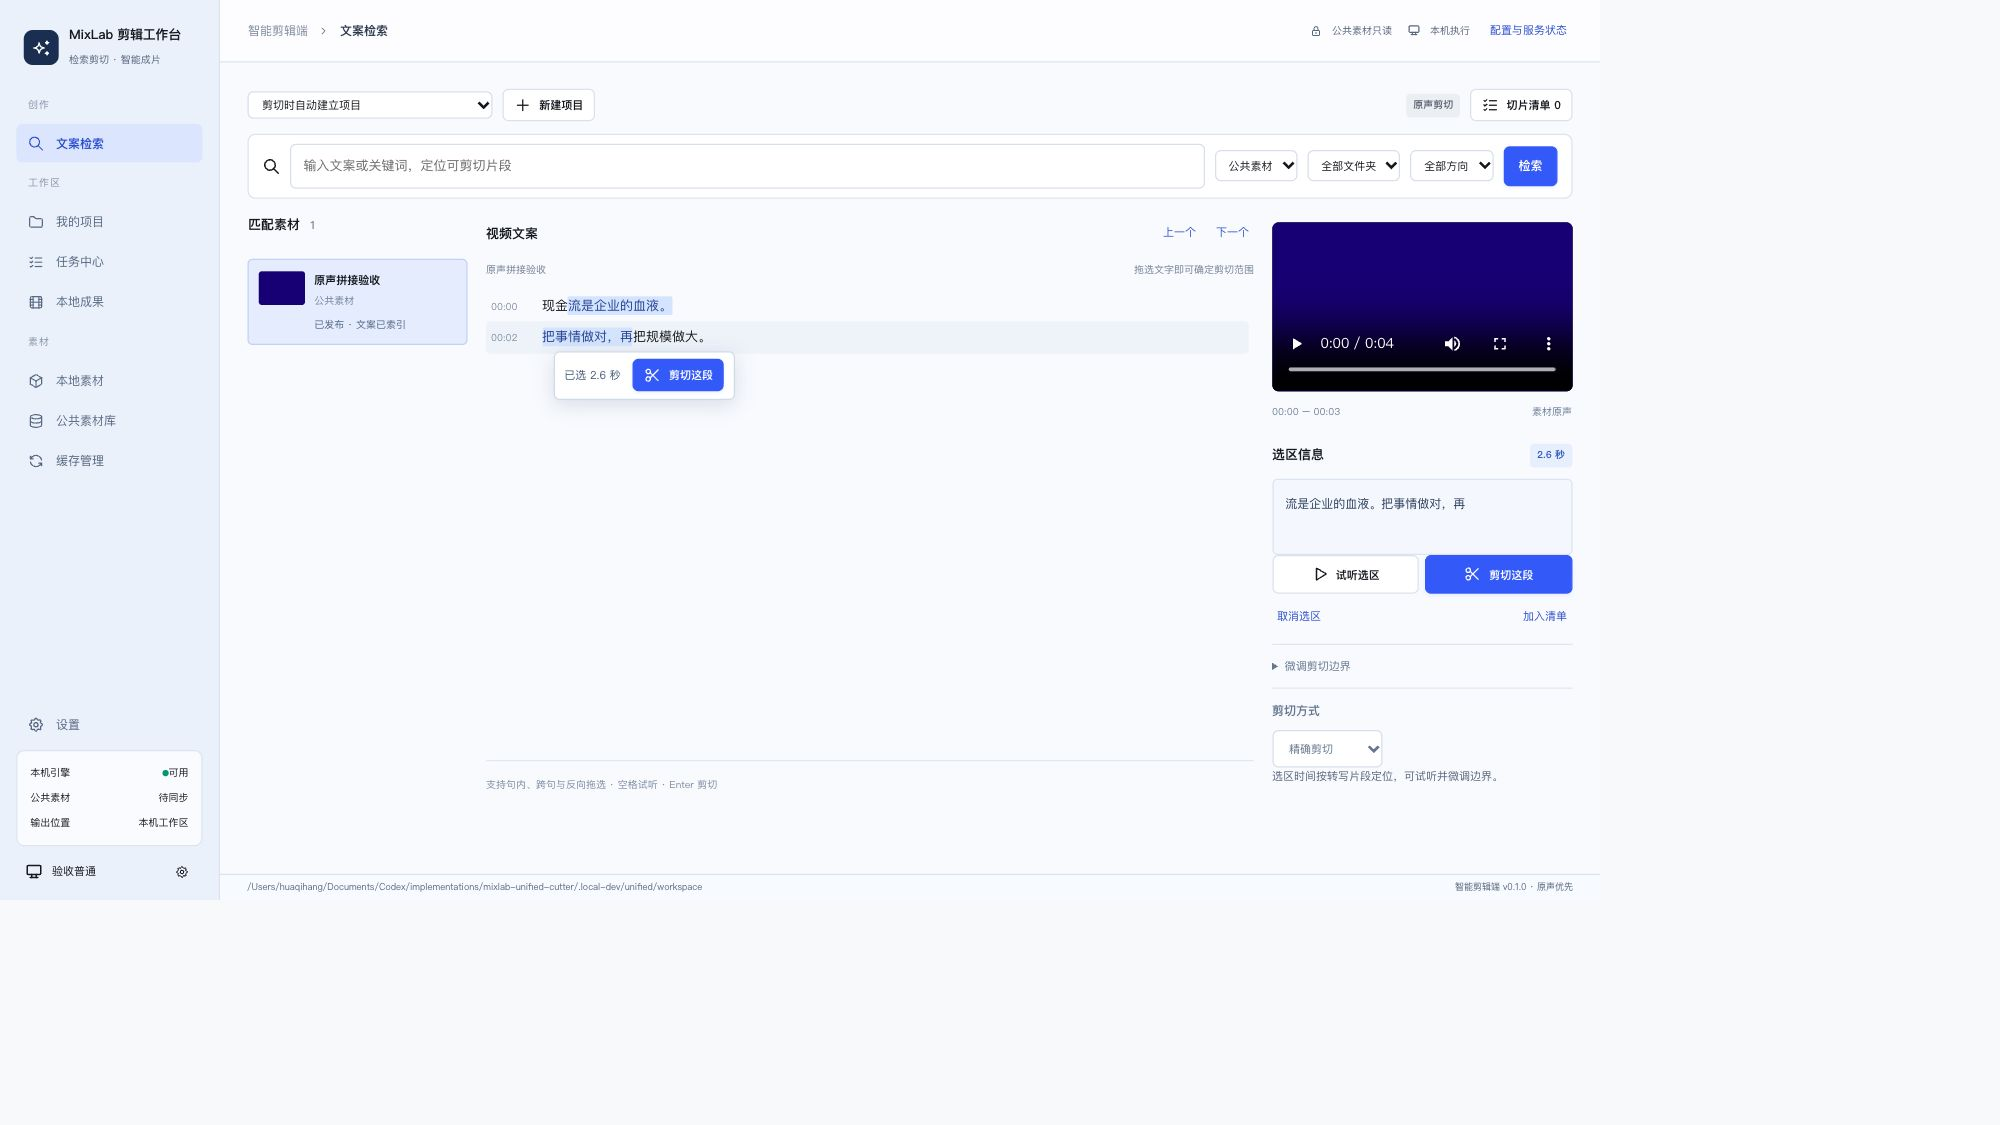
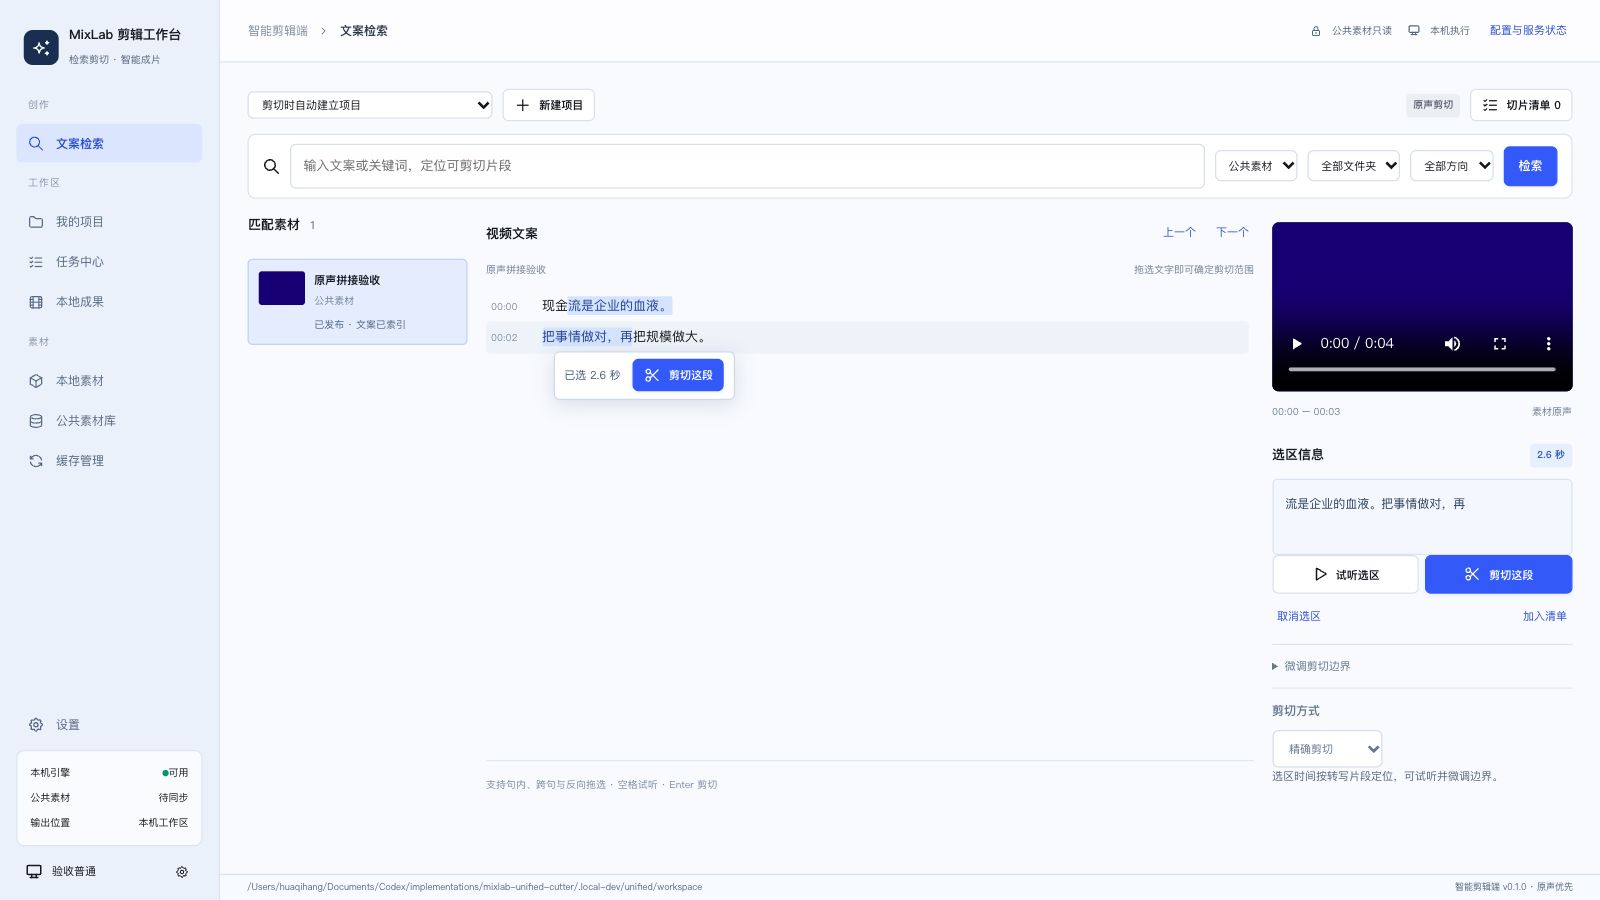
fix: protect unfinished assemblies and serialize cache path changes

diff --git a/packages/smart-cutter/src/core.ts b/packages/smart-cutter/src/core.ts
@@ -36,6 +36,7 @@ export class SmartCore {
   readonly cache: WorkspaceCache;
   readonly assemblies: Assemblies;
   cacheClearing = false;
+  configuring = false;
   activeStreams = 0;
   settings: Settings;
   runtime = { ai_ready: false, ffmpeg_ready: false, library_ready: false, library_count: 0, library_version: "", library_error: "" };
@@ -110,6 +111,9 @@ export class SmartCore {
   publicSettings() { return { ...this.settings, has_tikhub_key: this.vault.has("tikhub"), has_asr_key: this.vault.has("dashscope"), credential_protection: process.platform === "win32" ? "Windows DPAPI" : "开发环境本机私有文件", runtime: { ...this.runtime, semantic: this.ai.indexStatus } }; }
   async updateSettings(body: Record<string, unknown>): Promise<ReturnType<SmartCore["publicSettings"]>> {
     const action = async () => {
+      if (this.cacheClearing) throw new SmartError("cache_busy", "缓存正在清理，请稍后修改设置", 409);
+      this.configuring = true;
+      try {
       const next = { ...this.settings };
       if (body.library_root !== undefined) next.library_root = typeof body.library_root === "string" ? body.library_root.trim() : requireText(body.library_root, "公共素材路径");
       if (body.workspace_root !== undefined) next.workspace_root = requireText(body.workspace_root, "智能工作区", 2048);
@@ -122,7 +126,7 @@ export class SmartCore {
       if (body.default_source_folder !== undefined) next.default_source_folder = String(body.default_source_folder).trim();
       if (body.asr_model !== undefined) next.asr_model = requireText(body.asr_model, "转写模型", 80);
       const moved = next.workspace_root !== this.settings.workspace_root || next.library_root !== this.settings.library_root;
-      if (moved && (this.rendering || this.planning.size || this.references.active || this.monitoring || this.store.listStatus("assembly", ["queued", "running", "paused", "failed"]).length || await this.manual.busy())) throw new SmartError("runtime_busy", "正在处理作品或参考视频，请等待或暂停任务后修改目录", 409);
+      if (moved && (this.activeStreams || this.rendering || this.planning.size || this.references.active || this.monitoring || this.store.listStatus("assembly", ["queued", "running", "paused", "failed"]).length || await this.manual.busy())) throw new SmartError("runtime_busy", "正在处理作品或参考视频，请等待或暂停任务后修改目录", 409);
       if (next.library_root && !path.isAbsolute(next.library_root)) throw new SmartError("library_path", "公共素材库必须是绝对路径");
       await this.ensureWorkspace(next.workspace_root, next.library_root);
       for (const [input, name] of [["tikhub_api_key", "tikhub"], ["asr_api_key", "dashscope"]]) {
@@ -137,6 +141,7 @@ export class SmartCore {
       if (next.library_root !== this.settings.library_root) { this.session = null; await this.vault.set("cutter_session", ""); this.runtime.library_ready = false; }
       await atomicPrivateJson(path.join(this.options.state_root, "settings.json"), next); this.settings = next; this.manual.update();
       return this.publicSettings();
+      } finally { this.configuring = false; }
     };
     const operation = this.configWrites.then(action); this.configWrites = operation.catch(() => undefined); return operation;
   }
@@ -499,7 +504,7 @@ export class SmartCore {
   }
   private async tick(): Promise<void> {
     void this.assemblies.drain().catch(() => undefined);
-    if (this.closed || this.cacheClearing) return;
+    if (this.closed || this.cacheClearing || this.configuring) return;
     if (this.controllers.size) {
       const auth = await this.authStatus();
       if (auth.required || auth.user?.tier !== "pro") for (const [jobId, controller] of this.controllers) {

diff --git a/packages/smart-cutter/src/http.ts b/packages/smart-cutter/src/http.ts
@@ -75,7 +75,7 @@ export function createSmartServer(core: SmartCore, token = "", shutdown?: () => 
         json(response, 202, { stopping: true }); setImmediate(shutdown); return;
       }
       if (url.pathname.startsWith("/cutter/") || url.pathname.startsWith("/smart/media/")) {
-        if (core.cacheClearing) throw new SmartError("cache_busy", "正在清理缓存，请稍后播放或剪切", 409);
+        if (core.cacheClearing || core.configuring) throw new SmartError("cache_busy", "缓存或目录正在调整，请稍后播放或剪切", 409);
         core.activeStreams++;
         response.once("close", () => { core.activeStreams--; });
       }
@@ -92,7 +92,7 @@ export function createSmartServer(core: SmartCore, token = "", shutdown?: () => 
       if (url.pathname === "/smart/provider/test" && method === "POST") { await core.requirePro(); json(response, 200, await core.provider.testConnection()); return; }
       await core.requireSession();
       if (url.pathname === "/smart/auth/password" && method === "POST") { await core.changePassword(await body(request)); json(response, 200, { changed: true }); return; }
-      if (core.cacheClearing && method !== "GET") throw new SmartError("cache_busy", "正在清理缓存，请稍后操作", 409);
+      if ((core.cacheClearing || core.configuring) && method !== "GET") throw new SmartError("cache_busy", "正在清理缓存，请稍后操作", 409);
       if (url.pathname === "/smart/assemblies" && method === "POST") { const input = await body(request); json(response, 202, await core.assemblies.submit(String(input.project_id), input.cut_job_ids)); return; }
       const assemblyRoute = /^\/smart\/assemblies\/([^/]+)\/(action|open|video|srt|manifest)$/.exec(url.pathname);
       if (assemblyRoute) {
@@ -120,6 +120,8 @@ export function createSmartServer(core: SmartCore, token = "", shutdown?: () => 
       if (localRoute && method === "DELETE") { await manageLocalClip(core, localRoute[1]!); json(response, 200, { removed: true }); return; }
       if (url.pathname === "/smart/cache" && method === "GET") { json(response, 200, await core.cache.status()); return; }
       if (url.pathname === "/smart/cache/clear" && method === "POST") { json(response, 200, await core.cache.clear((await body(request)).kinds)); return; }
+      const deleteOutputs = /^\/cutter\/projects\/([^/]+)\/outputs$/.exec(url.pathname);
+      if (deleteOutputs && method === "DELETE" && core.store.listStatus<import("./assembly.ts").Assembly>("assembly", ["queued", "running", "paused", "failed"]).some(job => job.project_id === decodeURIComponent(deleteOutputs[1]!))) throw new SmartError("project_busy", "请完成或取消合并任务后删除项目文件", 409);
       if (url.pathname.startsWith("/cutter/")) { core.manual.dispatch(request, response); return; }
       if (url.pathname === "/smart/library/sync" && method === "POST") { background(core.syncLibrary()); json(response, 202, { started: true }); return; }
       if (url.pathname === "/smart/library/folders" && method === "GET") { json(response, 200, await core.library.folders()); return; }

diff --git a/packages/smart-cutter/src/unified-integration.test.ts b/packages/smart-cutter/src/unified-integration.test.ts
@@ -44,6 +44,8 @@ test("shared approved accounts, old-account compatibility, real manual cut/recut
   const locals = await api<LocalClipCatalog>("/cutter/local-clips"); assert.equal(locals.local_clip_count,1);
   const clip = locals.clips[0]!; const media = await fetch(base+clip.media_url,{headers:{"X-Smart-Token":"local-test-access"}}); assert.equal(media.status,200); assert.ok((await media.arrayBuffer()).byteLength>1000);
   const merge = await api<Assembly>("/smart/assemblies", "POST", {project_id:project.id,cut_job_ids:[job.cut_job_id,job.cut_job_id]},202);
+  await api(`/cutter/projects/${project.id}/outputs`, "DELETE", undefined, 409);
+  await api(`/smart/projects/${project.id}`, "DELETE", undefined, 409);
   const completed = await until(async()=>{ await core.assemblies.drain(); const value = core.store.get<Assembly>("assembly",merge.id)!; if(value.status==="failed") throw new Error(value.error); return value.status==="done" ? value:null; });
   assert.equal(completed.completed,2); assert.ok(completed.duration_ms>4000);
   assert.ok((await readFile(path.join(path.dirname(completed.output_path),"sources.json"),"utf8")).includes(job.export_clip_id!));
@@ -66,6 +68,8 @@ test("shared approved accounts, old-account compatibility, real manual cut/recut
   await api(`/smart/works/${work.id}/segments/1/supplement`,"POST",{revision:planned.revision,source_video_id:"V000001",range:{start:0,end:0,from:0,to:10},begin_ms:0,end_ms:1700},409);
   await mkdir(path.join(core.settings.workspace_root,"cache/previews"),{recursive:true}); await writeFile(path.join(core.settings.workspace_root,"cache/previews/idle.mp4"),"fixture-cache");
   const output=await readFile(completed.output_path), localVideo=await readFile(path.join(core.manual.workspace,clip.relative_path!));
+  core.cacheClearing = true; await api("/smart/settings", "PUT", {source_cache_gb:31},409); core.cacheClearing = false;
+  core.configuring = true; await api("/smart/cache/clear", "POST", {kinds:["temporary"]},409); core.configuring = false;
   await api("/smart/cache/clear","POST",{kinds:["temporary","index","source","reference"]});
   assert.deepEqual(await readFile(completed.output_path),output); assert.deepEqual(await readFile(path.join(core.manual.workspace,clip.relative_path!)),localVideo);
   assert.equal(await readFile(pointer,"utf8"),initialPointer);

diff --git a/packages/smart-cutter/src/cache.ts b/packages/smart-cutter/src/cache.ts
@@ -53,7 +53,7 @@ export class WorkspaceCache {
   }
   async clear(kinds: unknown) {
     if (!Array.isArray(kinds) || kinds.some(kind => !["source", "temporary", "index", "reference"].includes(kind))) throw new SmartError("cache_kind", "清理分类无效");
-    if (this.core.cacheClearing) throw new SmartError("cache_busy", "缓存正在清理，请稍后", 409);
+    if (this.core.cacheClearing || this.core.configuring) throw new SmartError("cache_busy", "缓存正在清理，请稍后", 409);
     this.core.cacheClearing = true;
     try {
       let removedBytes = 0, removedFiles = 0;

diff --git a/packages/smart-cutter/src/assembly.ts b/packages/smart-cutter/src/assembly.ts
@@ -46,7 +46,7 @@ export class Assemblies {
     return this.save(job);
   }
   async drain(): Promise<void> {
-    if (this.closed || this.controller || this.core.cacheClearing) return;
+    if (this.closed || this.controller || this.core.cacheClearing || this.core.configuring) return;
     const queued = this.core.store.listStatus<Assembly>("assembly", ["queued"])[0]; if (!queued) return;
     await this.core.requireSession();
     const jobs = await Promise.all(queued.cut_job_ids.map(id => getCutJob({ workspace_root: this.core.manual.workspace, cut_job_id: id })));

diff --git a/docs/acceptance/unified-cutter/implementation-report.md b/docs/acceptance/unified-cutter/implementation-report.md
@@ -8,7 +8,7 @@
 - Pro 文案成片：整段文案输入、自动命名、手动/自动来源区分、原声匹配审核、人工拖选补句、人物构图与字幕、真实本地 MP4/SRT/来源记录。
 - 工作区：基础及智能项目、真实剪切/合并/智能任务，失败重试、暂停/继续、取消，本地成果播放和目录入口。
 - 素材：管理端已发布公共库、已有转写与索引；本机剪切素材可播放、改名、管理和复剪。抖音下载只供参考文案，不进入素材库。
-- 缓存：真实磁盘占用和分类清理；禁止删除素材库、本地产出、活动任务、检查点或越界/符号链接目标。
+- 缓存与文件保护：未完成的合并禁止删除项目记录或输入文件；目录调整与缓存清理互斥。真实磁盘占用和分类清理；禁止删除素材库、本地产出、活动任务、检查点或越界/符号链接目标。
 - 账号：沿用管理端审核、密码、设备、会话。账号默认普通；管理端增加普通/Pro 级别；授权存入独立兼容文件，旧账号结构不变。界面、HTTP API 与后台任务同时检查权限。
 - Windows：候选应用独立标识、安装目录与默认工作区；关闭窗口隐藏至托盘；托盘明确退出先请求引擎保存检查点，再停止进程树。实现依据官方 [Tauri 托盘 API](https://v2.tauri.app/learn/system-tray/)。
 
@@ -17,7 +17,7 @@
 - 类型检查、智能端 Web 构建、管理端 Web 构建、本机引擎打包、macOS Rust 编译检查通过。
 - 智能模块 14/14 测试通过，包括真实 FFmpeg 成片/字幕、模型推理、审核/取景、恢复、监控/转写接口桩、权限、真实剪切/复剪/合并和受保护清理。
 - 管理端/Cutter API 扩大回归 649 项：648 通过，1 失败。失败为旧 Cutter 本地素材统计时序断言；在未改动的 `f525c0e` 基线上，同组两项统计断言均可复现失败。新版本未修改该统计逻辑，未把既有失败记作通过。
-- 浏览器真实交互验证普通/Pro 登录、跨句与反向拖选、真实剪切、本地素材注册播放、Pro 匹配/成片/字幕与来源；截图保存本目录。
+- 浏览器真实交互验证普通/Pro 登录、跨句与反向拖选、真实剪切、本地素材注册播放、Pro 匹配/成片/字幕与来源、拖选补句返回原作品、两段清单导出并合并、真实缓存保护；1180×720 CSS 布局无横向溢出。截图保存本目录。
 - 测试素材为 4 秒色块视频和合成音调，附已知转写及真实发布索引。验证了媒体流水线与交互，不代表真实口播准确率或生产 NAS 性能。
 
 ## 尚需目标环境验证
